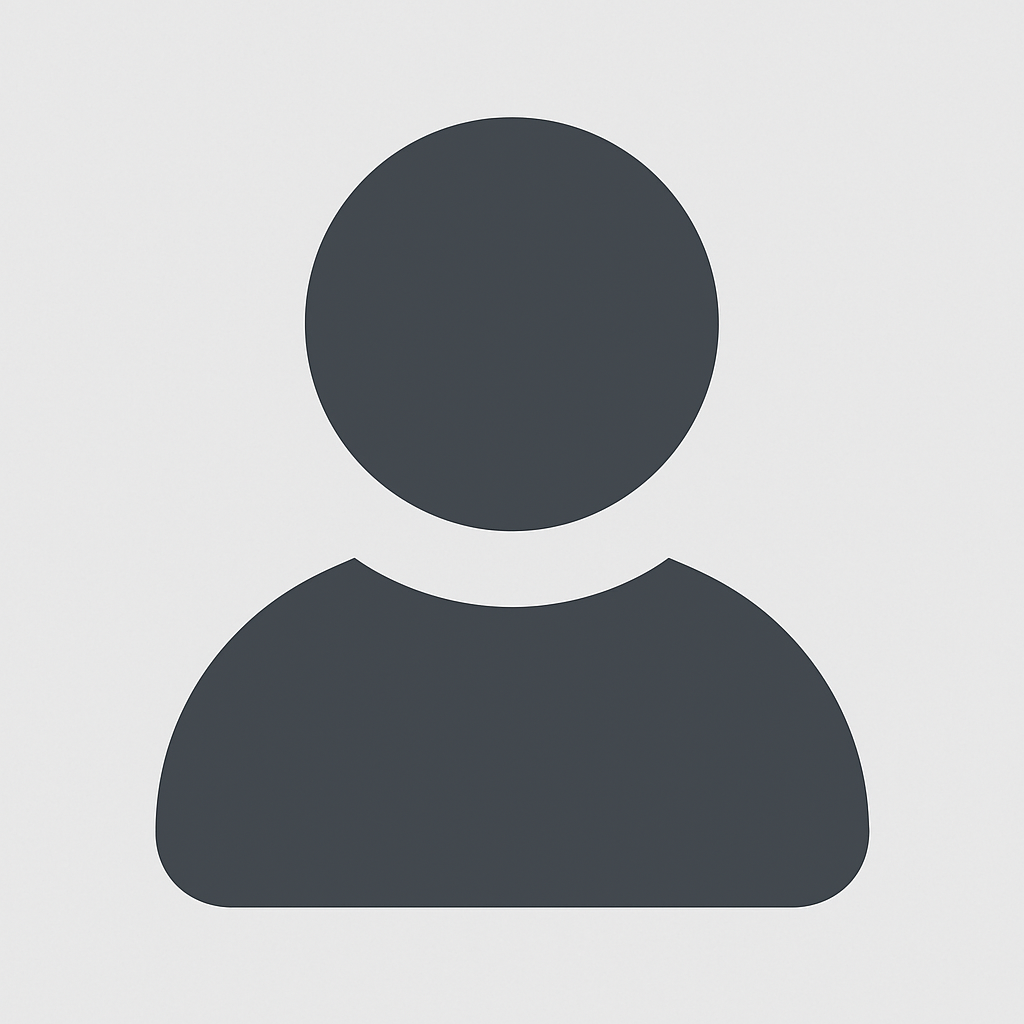
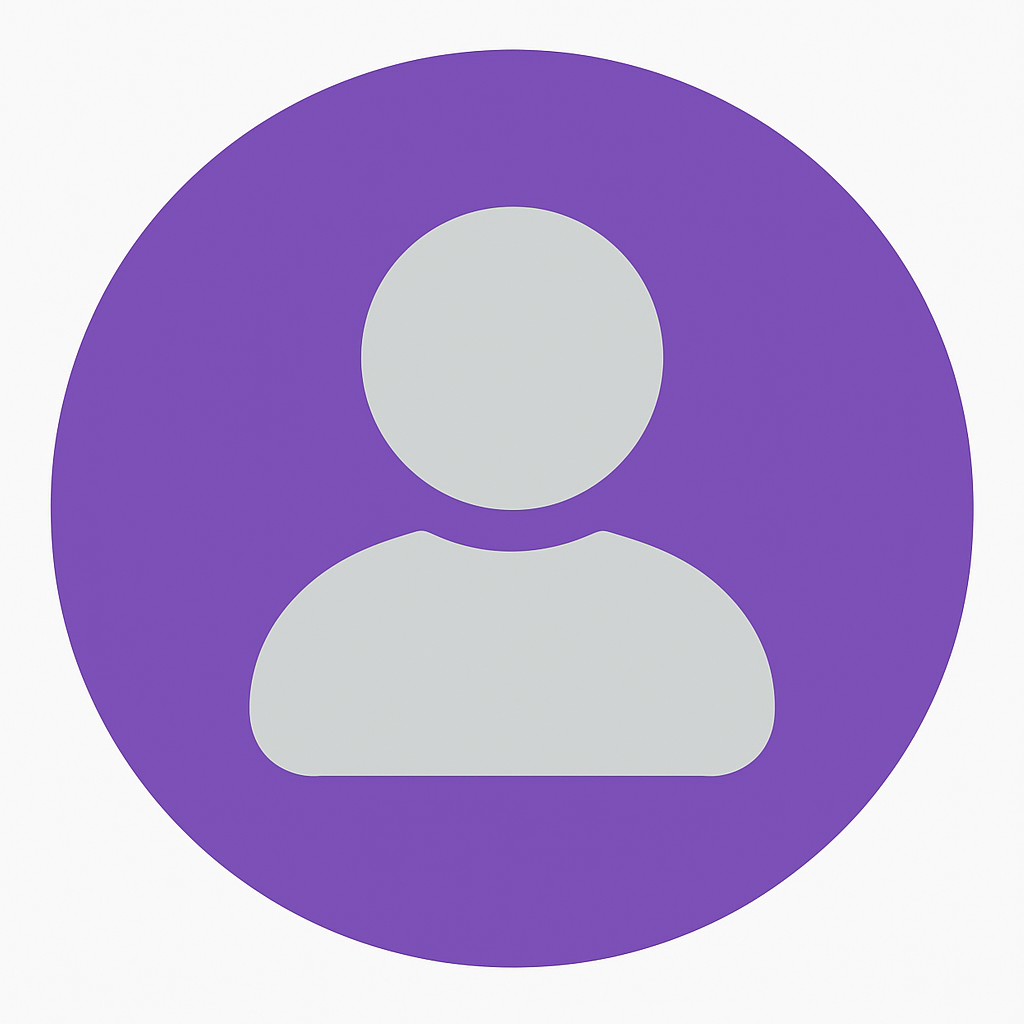
feat #12 로그인, 회원가입 추가 기능

diff --git a/src/pages/user/MypageView.vue b/src/pages/user/MypageView.vue
@@ -3,16 +3,12 @@
     <div class="profile-header-container">
       <div class="profile-info">
         <div class="avatar">
-          <img src="@/assets/profile3.png" alt="기본 프로필" class="avatar" />
+          <img src="@/assets/profile.png" alt="기본 프로필" class="avatar" />
         </div>
         <div class="name-section">
           <h2 class="username">홍길동(id)</h2>
         </div>
       </div>
-
-      <!-- <div class="profile-actions">
-        <button class="edit-btn" @click="toggleEditMode">프로필 수정</button>
-      </div> -->
     </div>
 
     <!-- 프로필 수정 모드에 따라 표시되는 내용 -->
@@ -27,6 +23,7 @@
         <div class="form-group">
           <label>비밀번호</label>
           <input type="password" placeholder="비밀번호 입력" v-model="password" />
+          <span v-if="passwordTooShort" class="error">최소 8자리 이상 입력해주세요.</span>
         </div>
         <div class="form-group">
           <label>이름</label>
@@ -55,7 +52,7 @@
 </template>
 
 <script setup>
-import { ref } from 'vue'
+import { ref, computed } from 'vue'
 
 const showAlert = ref(false)
 const alertMessage = ref('')
@@ -66,6 +63,11 @@ const showToast = ref(false)
 const password = ref('')
 const nickname = ref('')
 
+// 비밀번호 길이 유효성 검사
+const passwordTooShort = computed(() => {
+  return password.value.length > 0 && password.value.length < 8
+})
+
 // 수정 완료 핸들러
 const handleSave = () => {
   if (!password.value || !nickname.value) {
@@ -73,7 +75,12 @@ const handleSave = () => {
     showAlert.value = true
     return
   }
-
+  //비밀번호 최소 8자리 이상
+  if (passwordTooShort.value) {
+    alertMessage.value = '비밀번호는 최소 8자리 이상이어야 합니다.'
+    showAlert.value = true
+    return
+  }
   // 정상 수정 완료
   toastMessage.value = '수정이 완료되었습니다.'
   showToast.value = true
@@ -411,6 +418,13 @@ const cancelEdit = () => {
   .alert-message,
   .toast-message {
     font-size: 14px;
+  }
+
+  .error {
+    color: red;
+    font-size: 12px;
+    margin-top: 4px;
+    display: block;
   }
 }
 </style>

diff --git a/src/pages/user/SignupView.vue b/src/pages/user/SignupView.vue
@@ -18,6 +18,7 @@
         <div class="form-row">
           <label for="password">비밀번호</label>
           <input id="password" v-model="password" type="password" />
+          <span v-if="passwordTooShort" class="error">최소 8자리 이상 입력해주세요.</span>
         </div>
 
         <div class="form-row">
@@ -86,6 +87,11 @@ const passwordMatchError = computed(() => {
   return confirmPassword.value && password.value !== confirmPassword.value
 })
 
+//비밀번호 유효성 체크
+const passwordTooShort = computed(() => {
+  return password.value.length > 0 && password.value.length < 8
+})
+
 const handleSignup = async () => {
   if (!id.value || !password.value || !confirmPassword.value || !name.value) {
     openAlert('모든 항목을 입력해주세요!')
@@ -99,6 +105,12 @@ const handleSignup = async () => {
     openAlert('비밀번호가 일치하지 않습니다.')
     return
   }
+  //비밀번호가 너무 짧을 경우
+  if (passwordTooShort.value) {
+    openAlert('비밀번호는 최소 8자리 이상이어야 합니다.')
+    return
+  }
+
   try {
     const res = await axios.post('/user', {
       id: id.value,

diff --git a/src/layouts/DefaultLayout.vue b/src/layouts/DefaultLayout.vue
@@ -107,13 +107,16 @@ onBeforeUnmount(() => {
     position: fixed !important;
     top: 0;
     left: 0;
-    width: 95vw;
+    width: 75vw;
     height: 100vh;
     background-color: white;
     z-index: 999;
     overflow-y: auto;
     padding: 24px 24px;
     box-sizing: border-box;
+    border-top-right-radius: 16px;
+    border-bottom-right-radius: 16px;
+    box-shadow: 4px 0 10px rgba(0, 0, 0, 0.1);
   }
 
   .main-content {
